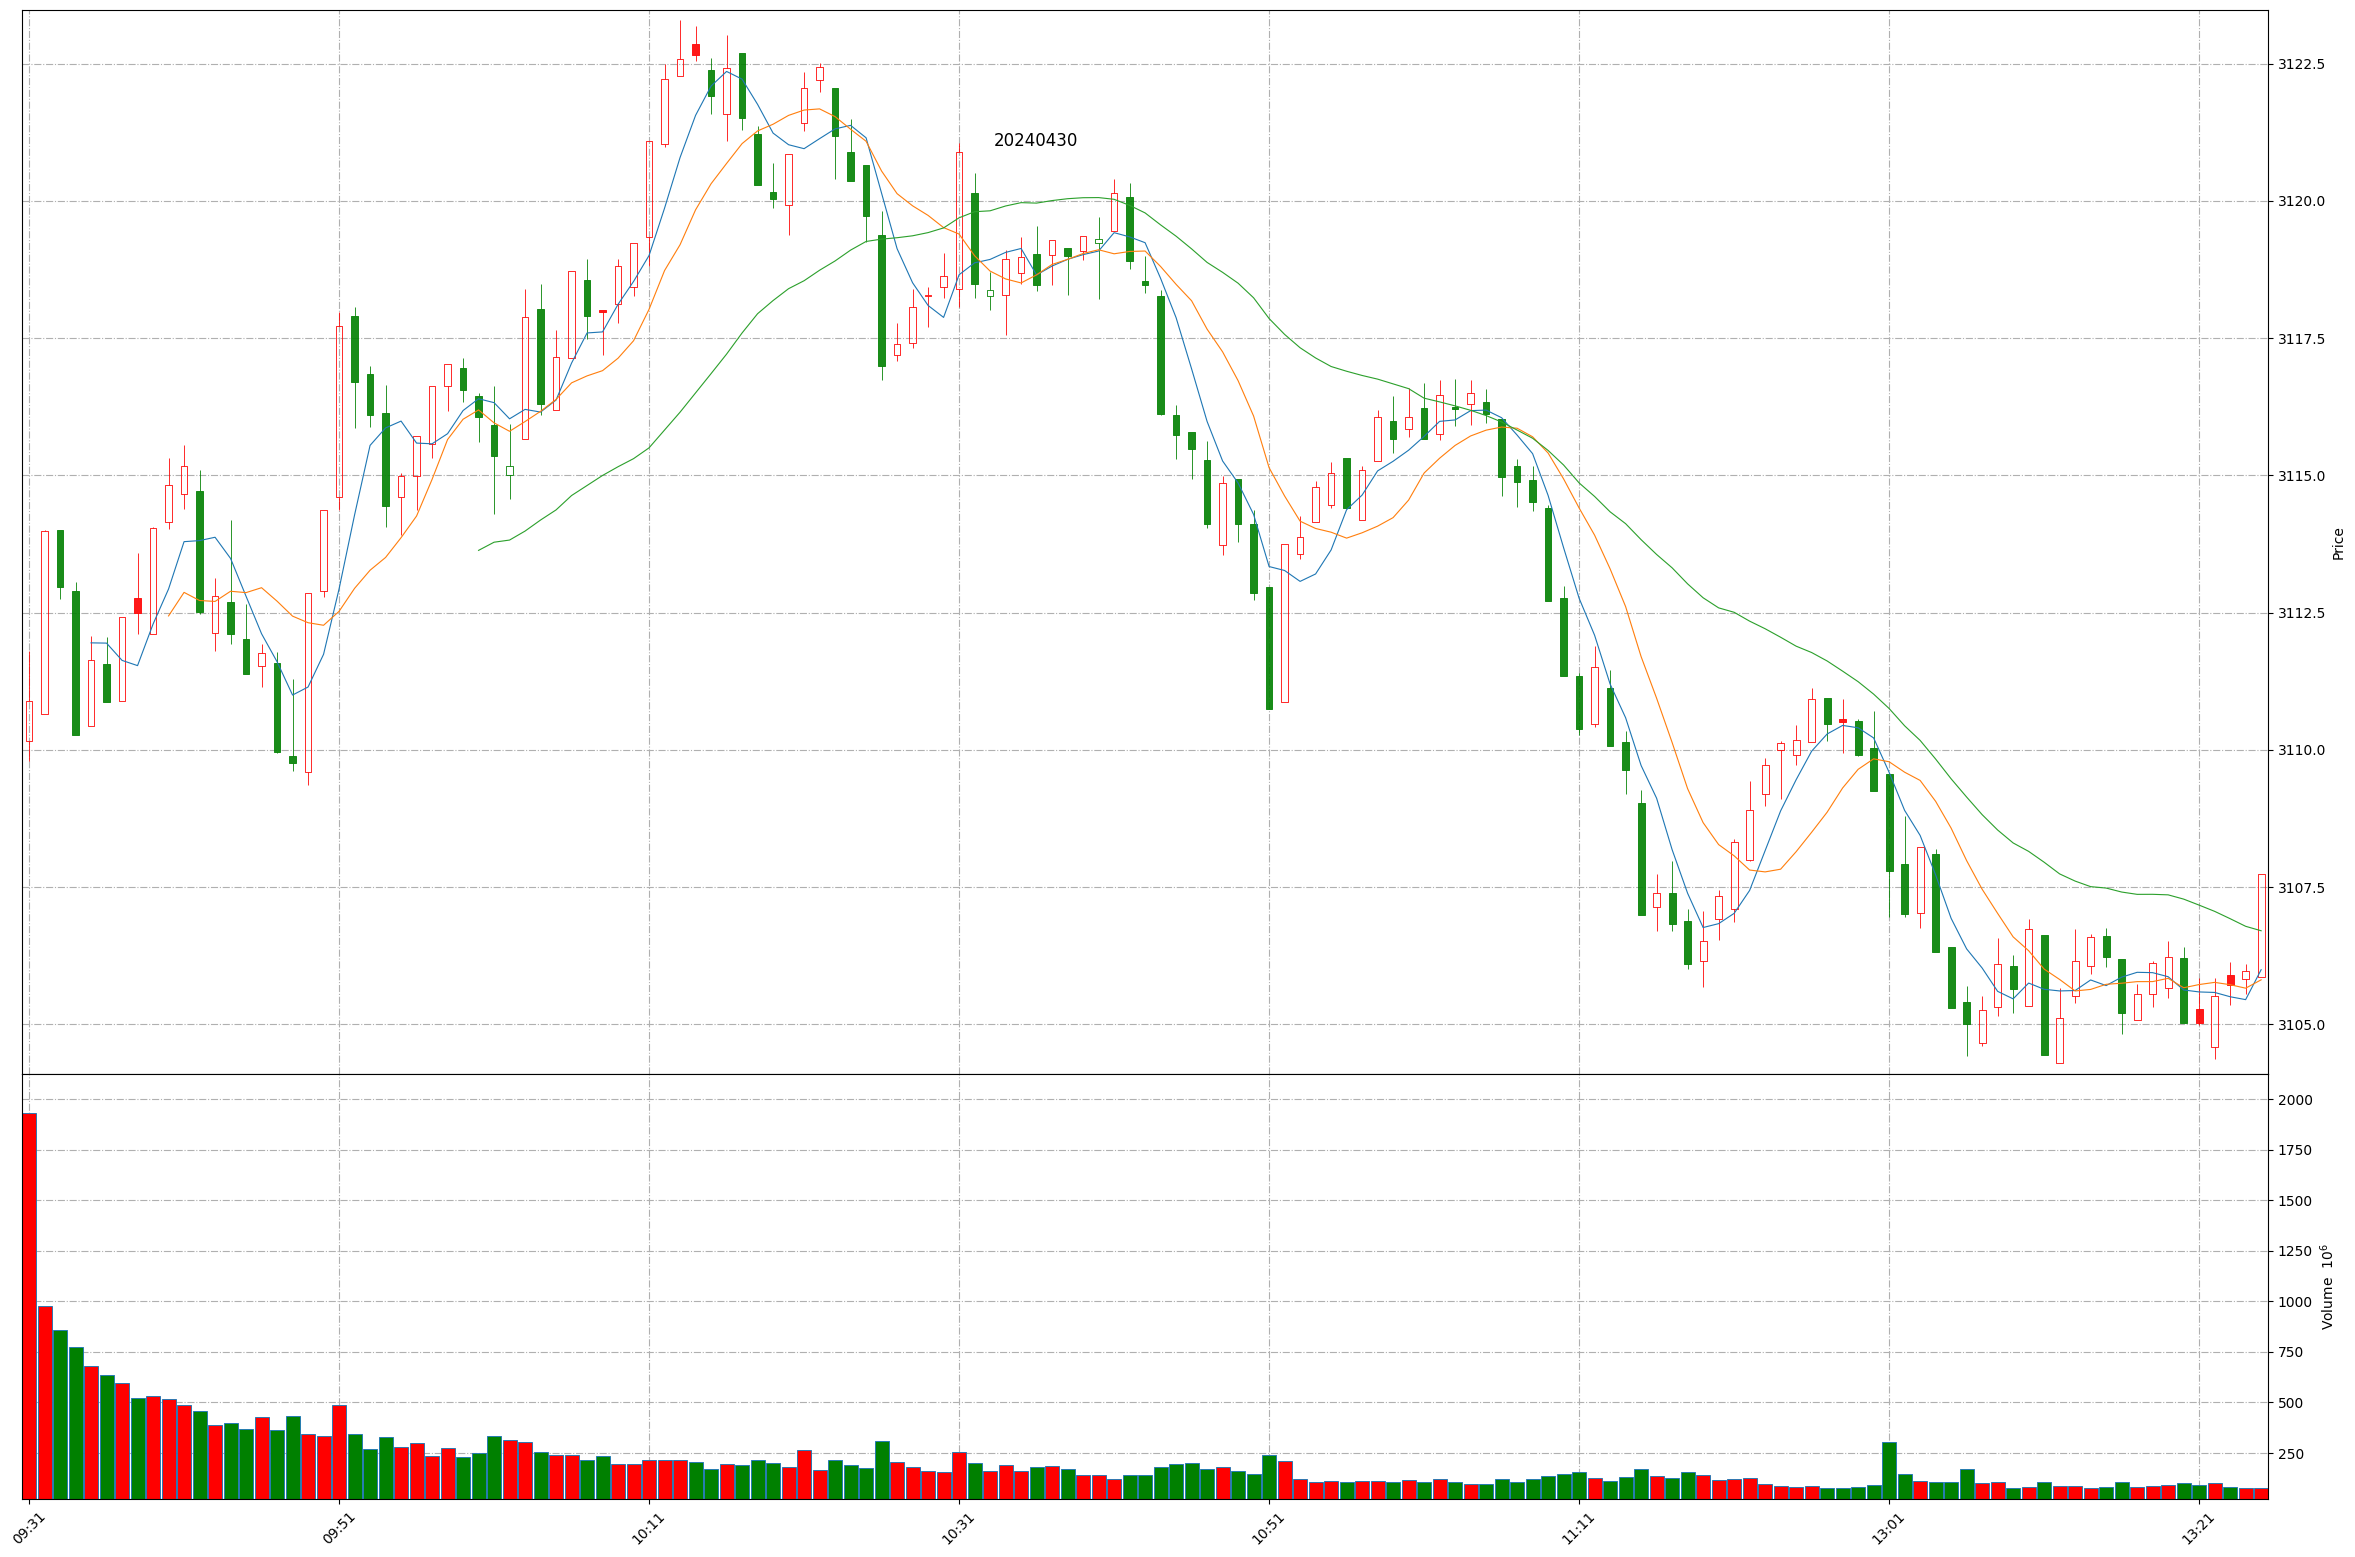
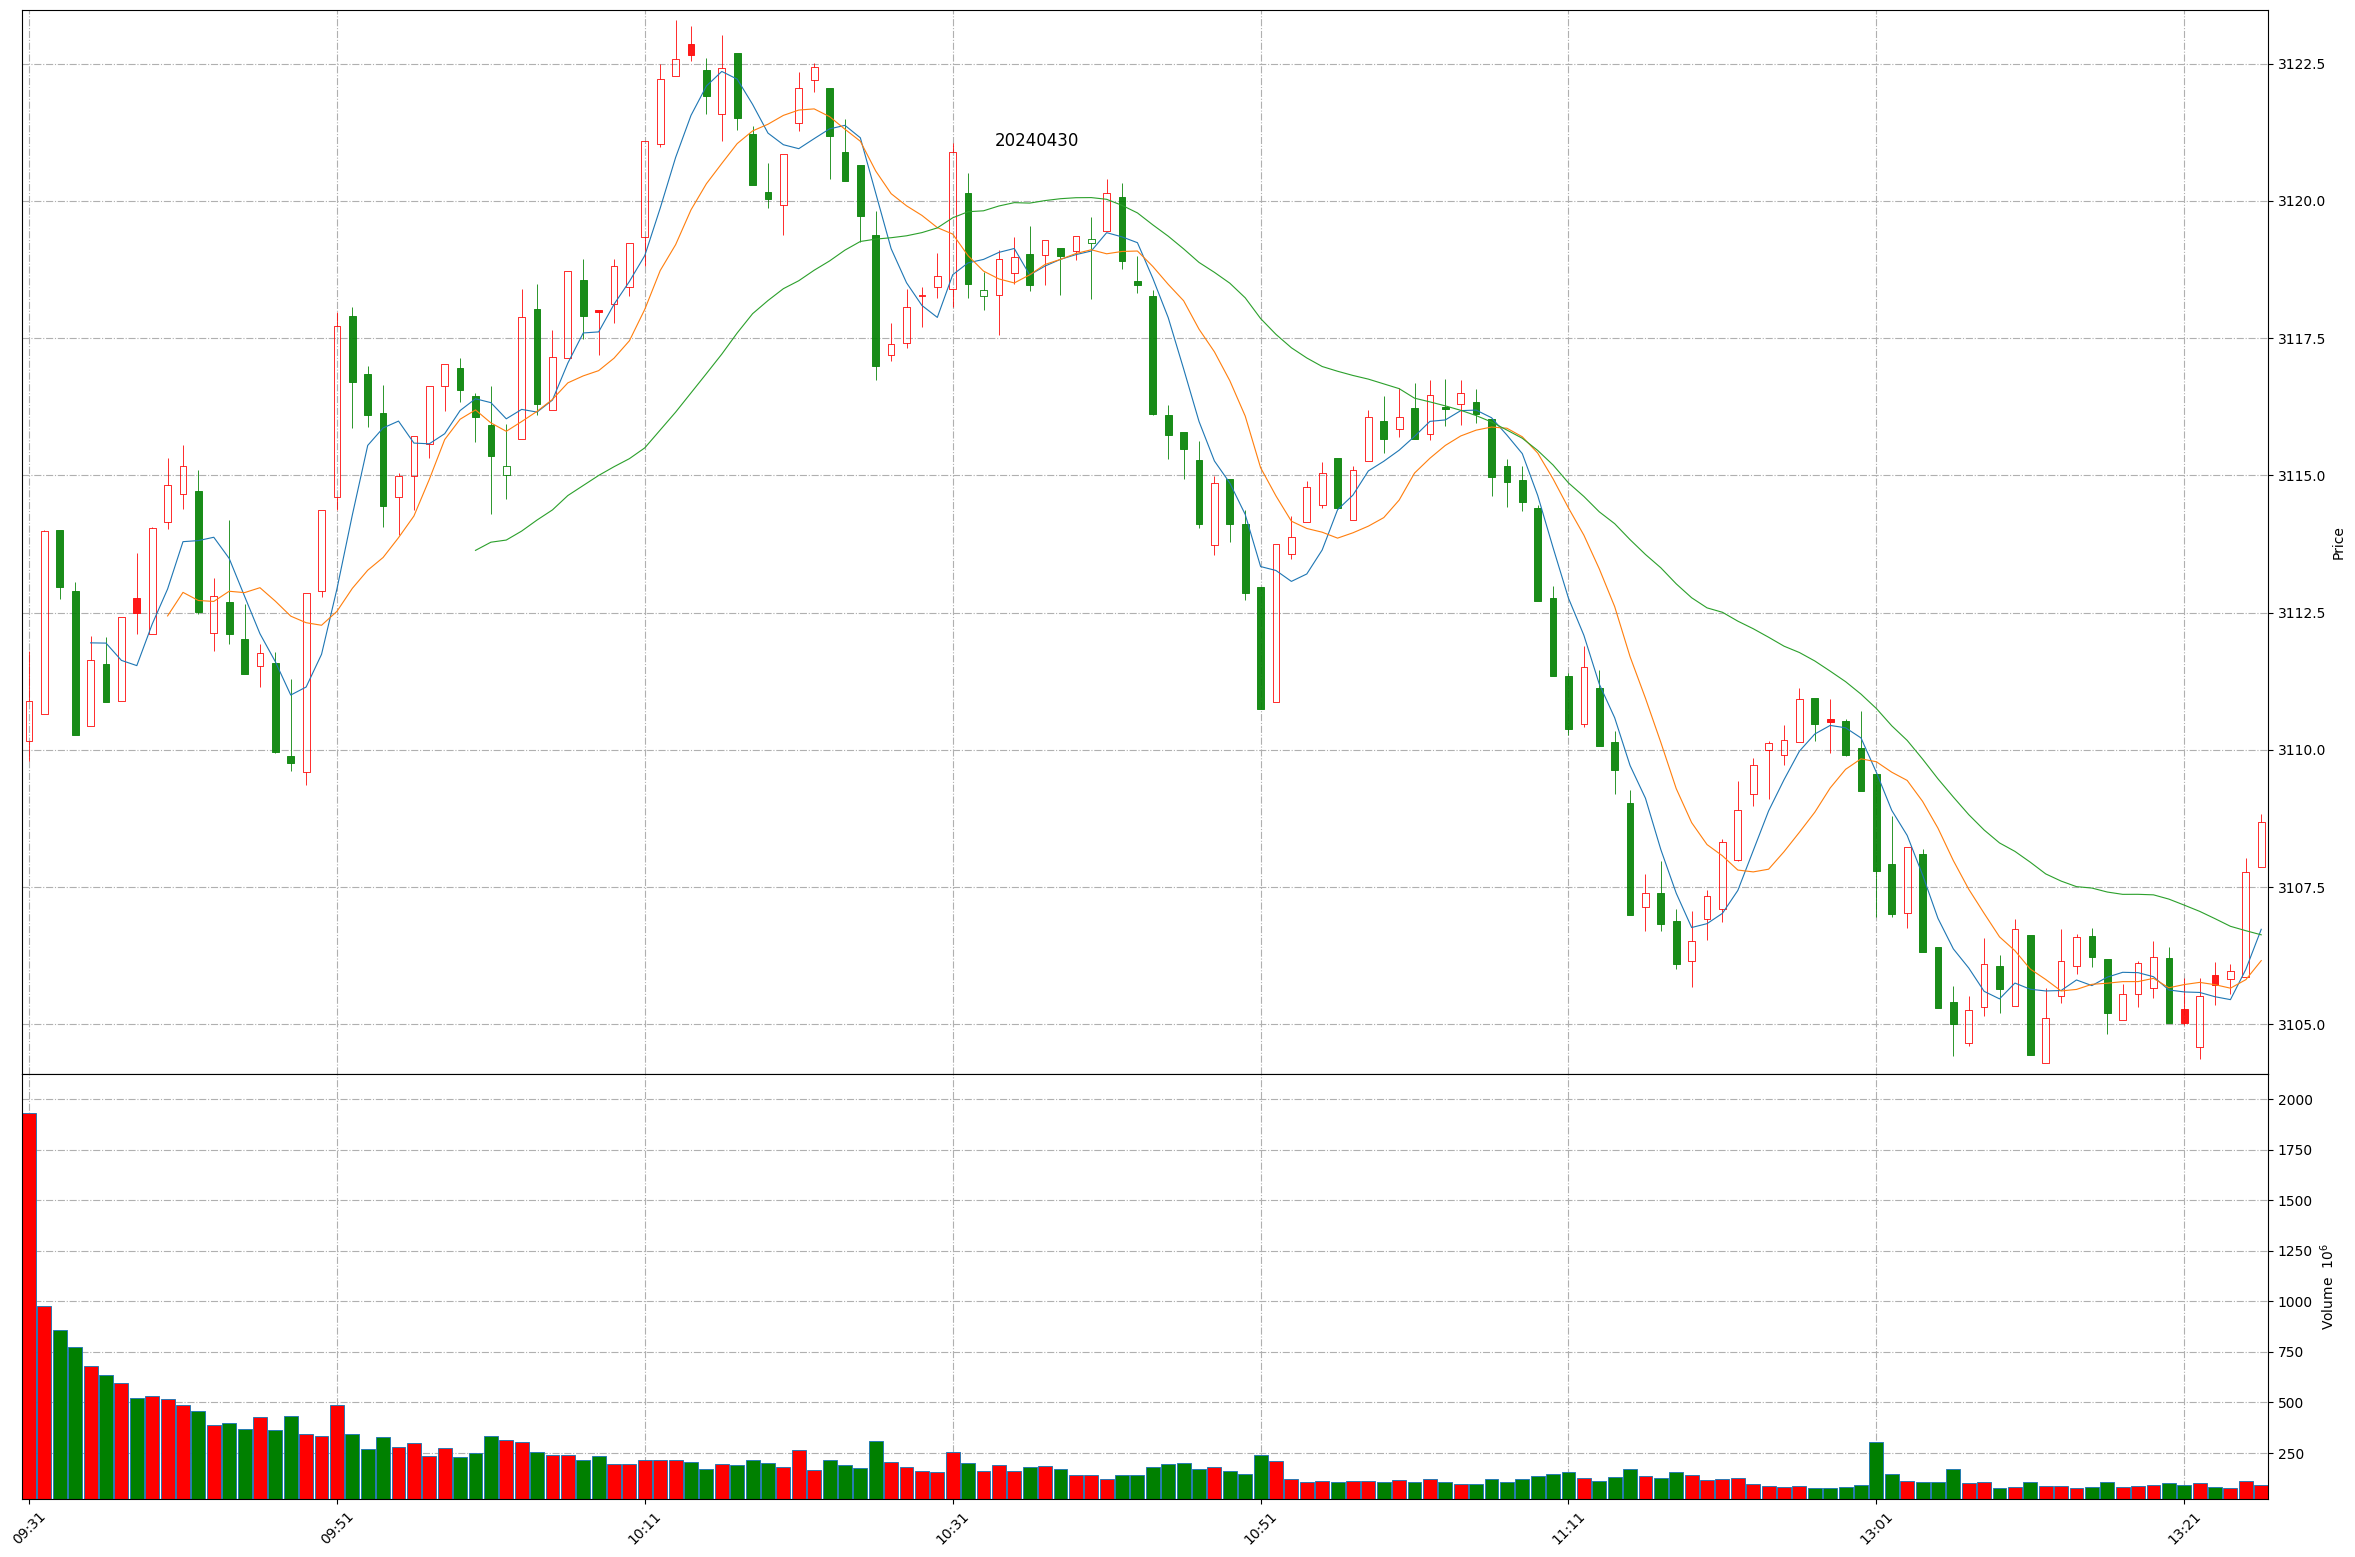
Github action update at 2024-04-30 13:26:11.

diff --git a/README.md b/README.md
@@ -1,11 +1,11 @@
 
 # Daily-A-share-market-quotes 每日 A 股指数（5min 更新）- 20240430
 
-### 上证指数 20240430 13:25
+### 上证指数 20240430 13:26
 ![](./fig/2024/4/20240430-sh000001.png)
 
-### 深证成指 20240430 13:25
+### 深证成指 20240430 13:26
 ![](./fig/2024/4/20240430-sz399001.png)
 
-### 北证50 20240430 13:25
+### 北证50 20240430 13:26
 ![](./fig/2024/4/20240430-bj899050.png)
